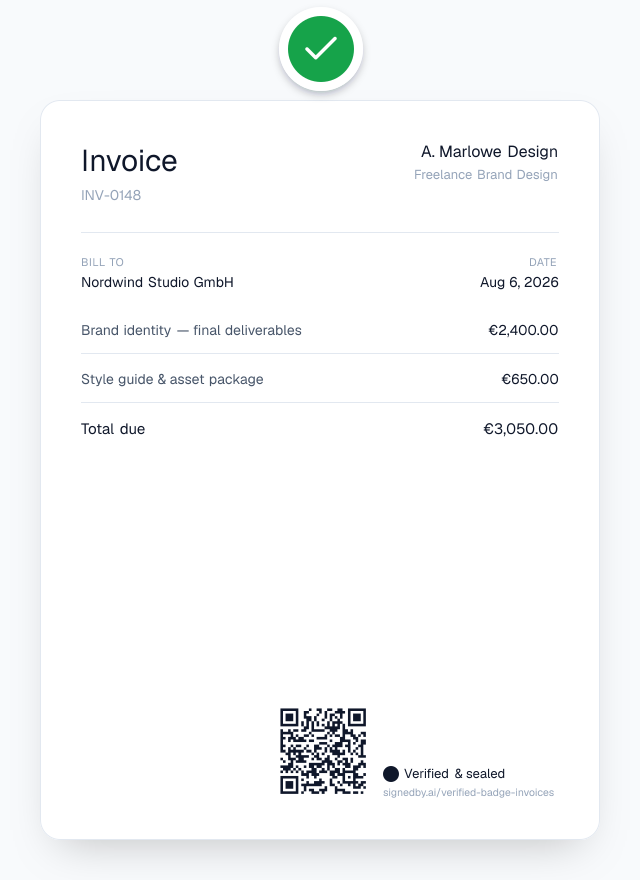
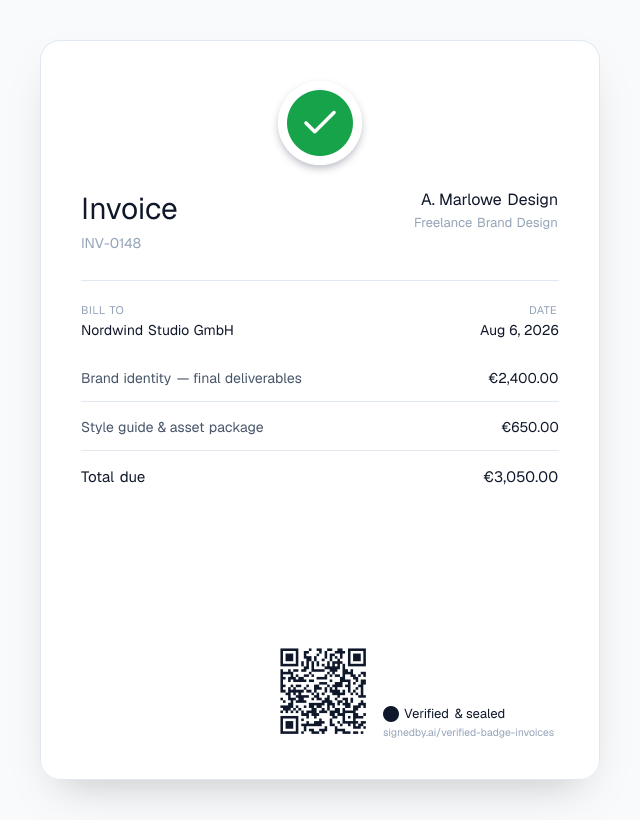
Move D/E/F's top tick inside the invoice card, not floated above it
Direct correction: the tick should still be inside the invoice image,
just centered at the top -- not floating outside the card's top edge
like the QR placement does. Now a normal flow element (flex row,
justifyContent:center) above the Invoice header row instead of an
absolutely positioned float. Canvas reverts to the shared image's
640x820 since no extra headroom is needed anymore; page.tsx drops the
now-unnecessary per-variant height branching.

diff --git a/scripts/generate-hero-verified-badge-invoice-redesign.tsx b/scripts/generate-hero-verified-badge-invoice-redesign.tsx
@@ -15,14 +15,18 @@ import { ImageResponse } from "next/og";
 // the shared image -- keep both files in sync if the base invoice mockup
 // ever changes.
 //
-// Canvas is taller than the shared image (880 vs 820) solely to make room
-// for the tick to float clear above the card's top edge with the same
-// ~10px clearance convention the QR placement uses -- see the placement
-// comment below. The card itself is the same 560x740 size as the shared
-// image; only the outer top margin grew to fit the floated badge.
+// First pass (same day) floated the tick above the card's top edge,
+// mirroring the QR placement's "float fully clear, never overlap"
+// convention -- needed a taller 880px canvas to leave headroom for that.
+// Corrected same day (direct ask: "should still be inside the invoice
+// image but at the top center"): the tick now sits INSIDE the card, as a
+// normal flow element above the "Invoice" header row, centered
+// horizontally -- not absolutely positioned, not floating outside the
+// card's bounds. Canvas is back to the shared image's 640x820, since
+// there's no longer any floating badge that needs extra headroom.
 
 const WIDTH = 640;
-const HEIGHT = 880;
+const HEIGHT = 820;
 const NAVY = "#0f172a";
 const SLATE = "#475569";
 const MUTED = "#94a3b8";
@@ -53,15 +57,11 @@ async function main() {
           display: "flex",
           flexDirection: "column",
           backgroundColor: "#f8fafc",
-          paddingTop: 100,
-          paddingRight: 40,
-          paddingBottom: 40,
-          paddingLeft: 40,
+          padding: 40,
         }}
       >
         <div
           style={{
-            position: "relative",
             display: "flex",
             flexDirection: "column",
             flex: 1,
@@ -72,43 +72,39 @@ async function main() {
             padding: 40,
           }}
         >
-          {/* Large green "verified" tick, centered above the invoice card
-              (direct ask, D/E/F only -- see file header comment). Floats
-              entirely above the card's own top edge, same ~10px clearance
-              convention as the shared image's above-the-QR placement:
-              badge height 84, top:-94 leaves 10px of visible gap above the
-              card. left:238 centers the 84-wide badge within the 560-wide
-              card ((560-84)/2). The outer canvas's extra top padding (100
-              vs the shared image's 40) is what gives this room to float
-              without going off-canvas. */}
-          <div
-            style={{
-              position: "absolute",
-              top: -94,
-              left: 238,
-              display: "flex",
-              alignItems: "center",
-              justifyContent: "center",
-              width: 84,
-              height: 84,
-              borderRadius: 999,
-              backgroundColor: "#ffffff",
-              boxShadow: "0 4px 10px -2px rgba(15, 23, 42, 0.35)",
-            }}
-          >
+          {/* Large green "verified" tick, centered at the top of the
+              invoice card (direct ask, D/E/F only -- see file header
+              comment). Sits inside the card as a normal flow element
+              (not absolutely positioned, not floating outside the card's
+              bounds) -- a plain flex row with justifyContent:center holds
+              it above the "Invoice" header row. */}
+          <div style={{ display: "flex", justifyContent: "center", marginBottom: 24 }}>
             <div
               style={{
                 display: "flex",
                 alignItems: "center",
                 justifyContent: "center",
-                width: 66,
-                height: 66,
+                width: 84,
+                height: 84,
                 borderRadius: 999,
-                backgroundColor: "#16a34a",
+                backgroundColor: "#ffffff",
+                boxShadow: "0 4px 10px -2px rgba(15, 23, 42, 0.35)",
               }}
             >
-              {/* eslint-disable-next-line @next/next/no-img-element -- Satori's renderer, not the DOM. */}
-              <img src={checkIconDataUri} width={42} height={42} alt="" />
+              <div
+                style={{
+                  display: "flex",
+                  alignItems: "center",
+                  justifyContent: "center",
+                  width: 66,
+                  height: 66,
+                  borderRadius: 999,
+                  backgroundColor: "#16a34a",
+                }}
+              >
+                {/* eslint-disable-next-line @next/next/no-img-element -- Satori's renderer, not the DOM. */}
+                <img src={checkIconDataUri} width={42} height={42} alt="" />
+              </div>
             </div>
           </div>
 

diff --git a/src/app/verified-badge-invoices/page.tsx b/src/app/verified-badge-invoices/page.tsx
@@ -268,22 +268,23 @@ export default async function VerifiedBadgeInvoicesPage({
             shared hero-verified-badge-invoice.png (large green tick
             centered above the QR). D/E/F use a separate
             hero-verified-badge-invoice-redesign.png (same invoice mockup,
-            but that tick moves to be centered at the TOP of the invoice
-            instead, since D/E/F already add a second verified badge lower
-            down via the wax-seal medallion overlay just below) — see
+            but that tick moves inside the card to sit centered at the TOP
+            of the invoice instead, above the "Invoice" header row, since
+            D/E/F already add a second verified badge lower down via the
+            wax-seal medallion overlay just below) — see
             generate-hero-verified-badge-invoice-redesign.tsx for why this
             needed its own file rather than a CSS-only reposition (the tick
             is baked into the PNG's pixels, not a separate DOM element).
-            The redesign image is taller (640x880 vs 640x820) to leave room
-            for the tick to float clear above the card without going
-            off-canvas; width/height below are swapped accordingly. */}
+            Same 640x820 canvas as the shared image — the tick sits inside
+            the card's own bounds, not floated above it, so no extra
+            canvas headroom is needed. */}
         <div className="relative w-full max-w-sm">
           <div className="overflow-hidden rounded-xl border border-slate-200/60 shadow-[0_1px_2px_rgba(15,23,42,0.04),0_10px_28px_-8px_rgba(15,23,42,0.12)]">
             <Image
               src={isRedesign ? "/hero-verified-badge-invoice-redesign.png" : "/hero-verified-badge-invoice.png"}
               alt="A Verified Badge stamped in the corner of a freelance invoice — the SignedBy mark, a scannable QR code, and a verification link"
               width={640}
-              height={isRedesign ? 880 : 820}
+              height={820}
               priority
               sizes="(max-width: 640px) 90vw, 384px"
               className="h-auto w-full"
